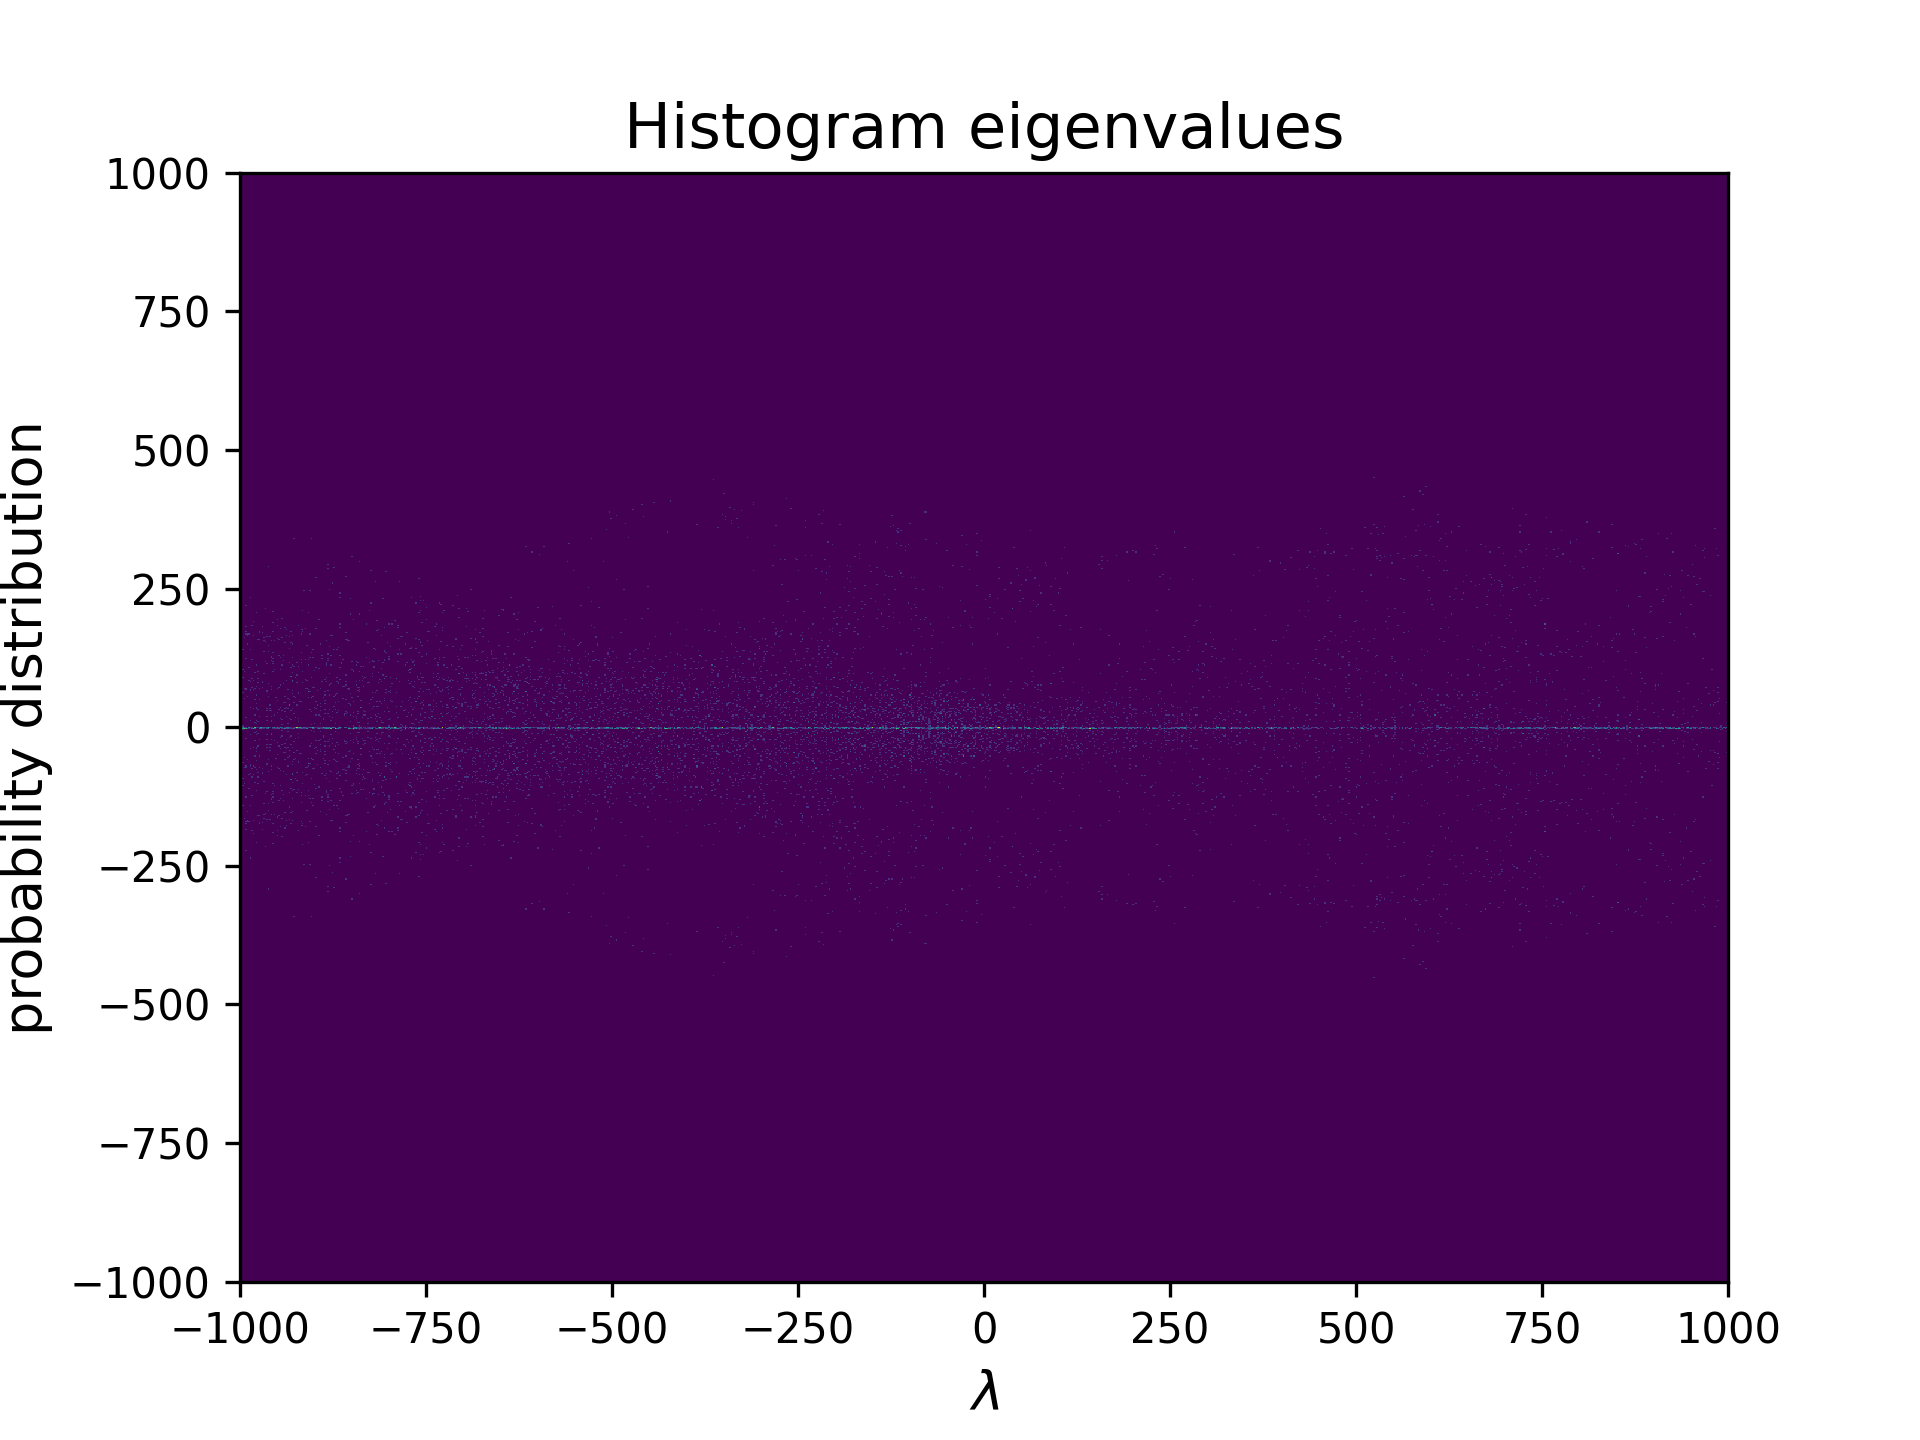
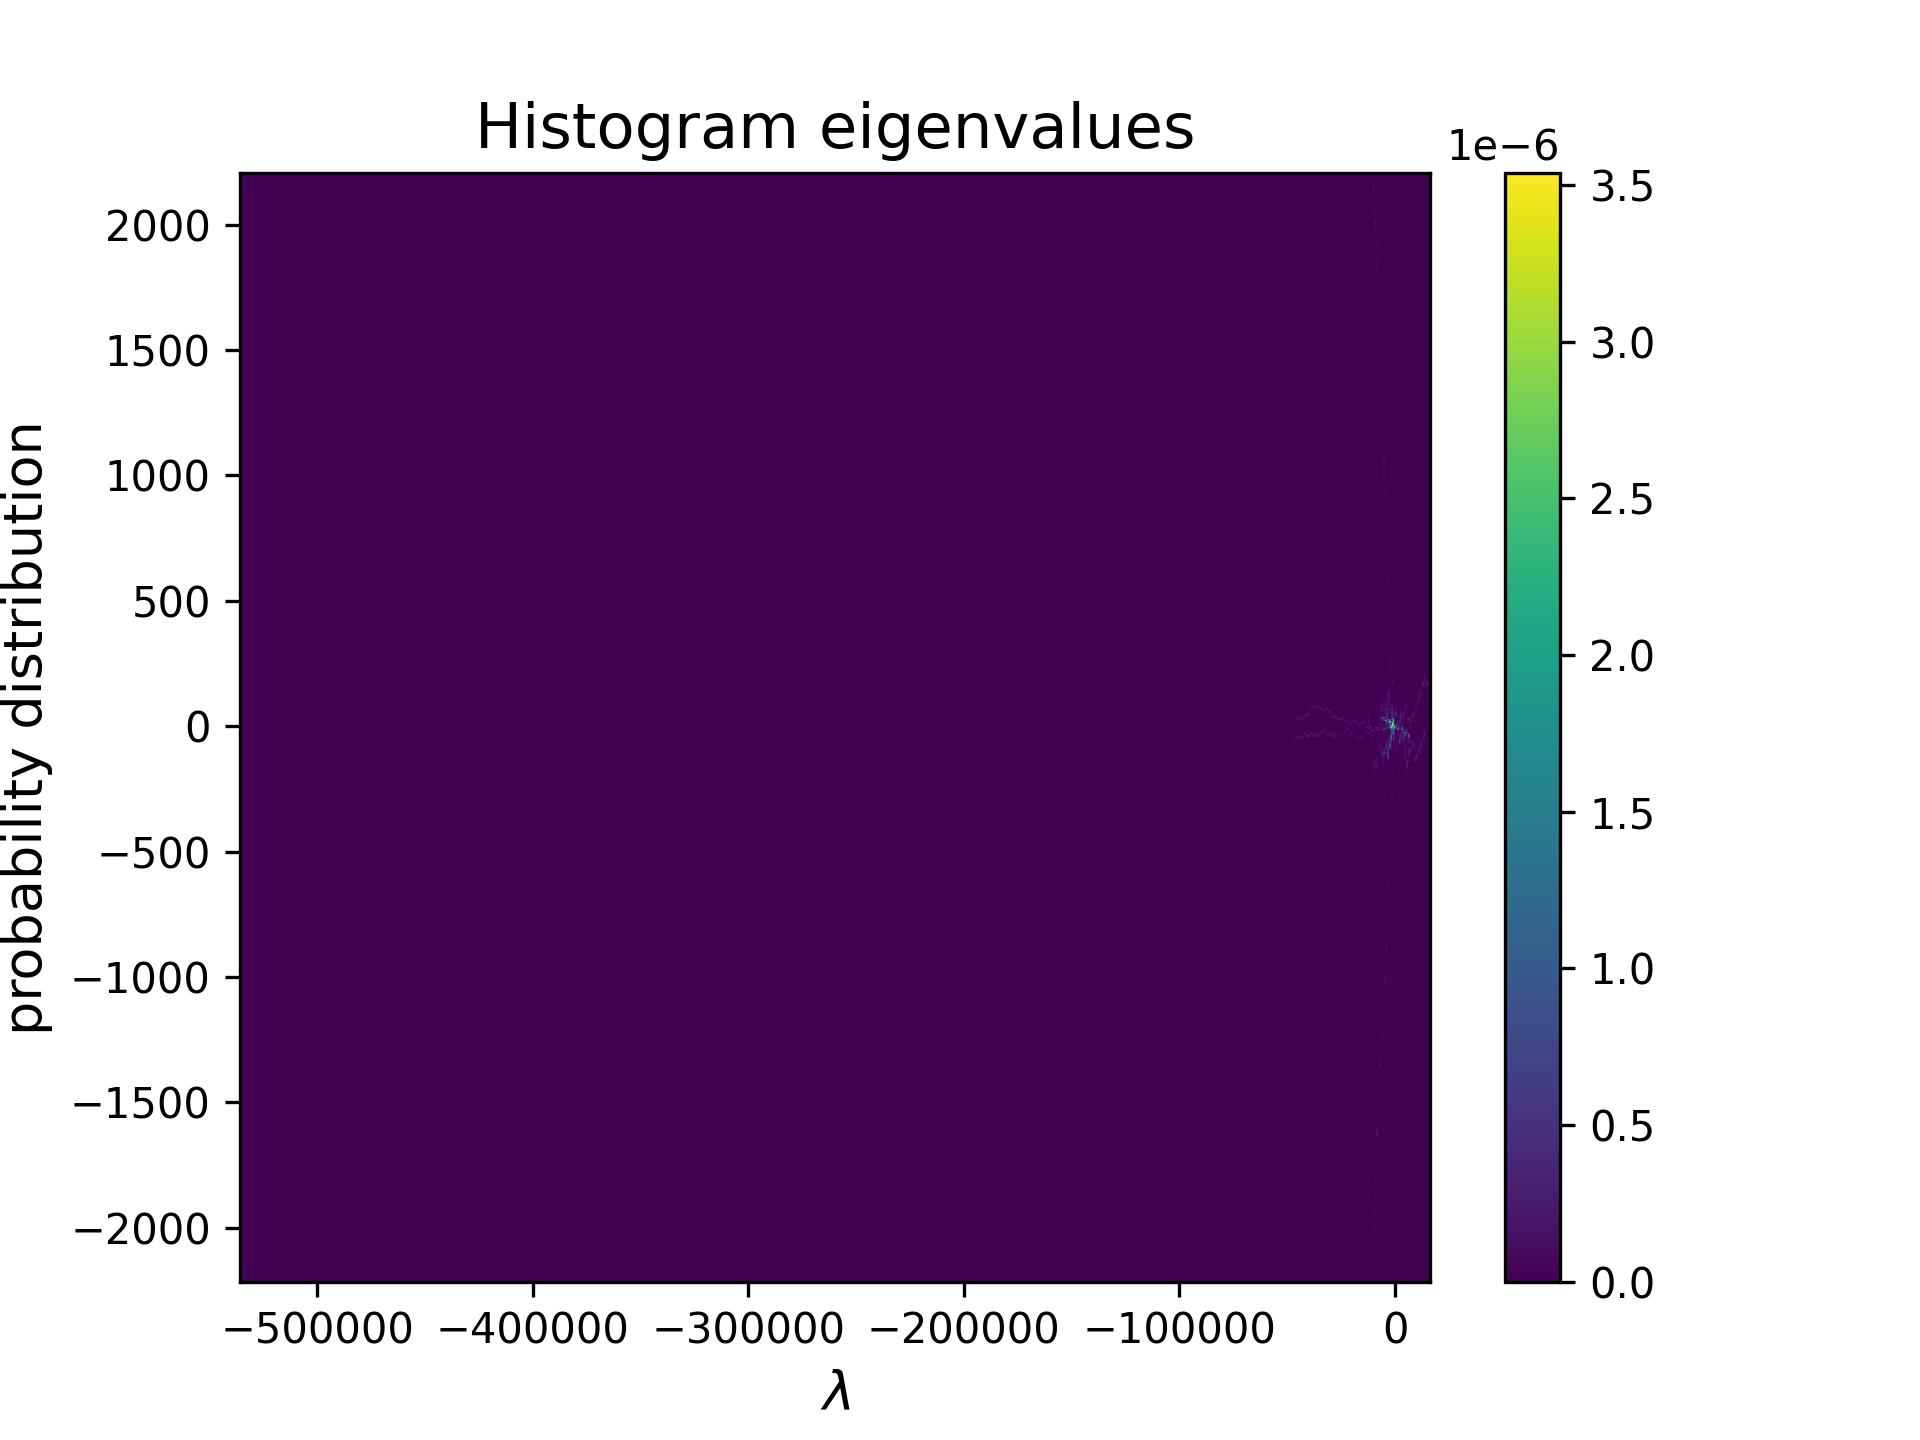
version_29.06.

diff --git a/RMT.py b/RMT.py
@@ -8,8 +8,8 @@ import cmath
 
 #Defining important constants
 
-N = int(20)
-M = int(800)
+N = int(4)
+M = int(8000)
 
 
 #Defining matricies
@@ -22,6 +22,11 @@ kappa_0 = np.zeros(shape=(N*N,N*N),dtype=np.complex_)
 mathcalL = np.zeros(shape=(N*N,N*N),dtype=np.complex_)
 Lambda = np.array([])
 dif = np.array([])
+
+A = np.zeros(shape=(N*N,N*N),dtype=np.complex_)
+B = np.zeros(shape=(N*N,N*N),dtype=np.complex_)
+C = np.zeros(shape=(N*N,N*N),dtype=np.complex_)
+D = np.zeros(shape=(N*N,N*N),dtype=np.complex_)
 
 
 #Implementing U from Timm and Lange
@@ -126,7 +131,7 @@ for e in range(M):
     for b in range(N*N):
             K_0[b][N*(N-1)+(N-1)] = 0
 
-    #Calculating mathcalL from K_0 via Lange,Timm (easy way, by back-transforming) Eq.:(23)
+    '''#Calculating mathcalL from K_0 via Lange,Timm (easy way, by back-transforming) Eq.:(23)
     kappa_0 = U.T.dot(K_0.dot(U))
     for i in range(N):
         for j in range(N):
@@ -138,9 +143,114 @@ for e in range(M):
                     if j == n:
                         for sum in range(N):
                             mathcalL[N*i+j][N*m+n] += 0.5*kappa_0[i*N+sum][m*N+sum]
-                    mathcalL[N*i+j][N*m+n] += kappa_0[N*i+m][N*j+n]
+                    mathcalL[N*i+j][N*m+n] += kappa_0[N*i+m][N*j+n]'''
+
+    #Calculating mathcalL using Timm, Lange Appendix (A1)-(A5)
+    #A
+    for m in range(N):
+        for n in range(N):
+            for p in range(N):
+                for q in range(N):
+
+                    if m == p:
+                        for sum in range(N):
+                            if sum != n:
+                                if sum != q:
+                                    A[N*m+n][N*p+q] += 0.5*K_0[sum*N+n][sum*N+q]
+                    if n == p:
+                        for sum in range(N):
+                            if sum != m:
+                                if sum != p:
+                                    A[N*m+n][N*p+q] += 0.5*K_0[sum*N+p][sum*N+m]
+                    if m != p:
+                        if n!= q:
+                            A[N*m+n][N*p+q] += K_0[m*N+p][n*N+m]
+    #B
+    for m in range(N):
+        for n in range(N):
+            for p in range(N):
+                for q in range(N):
+
+                    if m != p:
+                        if n == q:
+                            B[N*m+n][N*p+q] += (-np.sqrt((n)/(n+1))*K_0[N*m+p][N*(n-1)+(n-1)])
+                            for k in range(n, N-1):
+                                B[N*m+n][N*p+q] += K_0[m*N+p][k*N+k]/np.sqrt((k+1)*(k+2))
+
+                    if m == p:
+                        if n != q:
+                            B[N*m+n][N*p+q] += 0.5*(np.sqrt((q)/(q+1))*K_0[N*q+n][N*(q-1)+(q-1)])
+                            for k in range(q, N-1):
+                                B[N*m+n][N*p+q] += (-0.5*K_0[q*N+n][k*N+k]/np.sqrt((k+1)*(k+2)))
+
+                    if m != p:
+                        if n == q:
+                            B[N*m+n][N*p+q] += 0.5*(np.sqrt((m)/(m+1))*K_0[N*m+p][N*(m-1)+(m-1)])
+                            for k in range(m, N-1):
+                                B[N*m+n][N*p+q] += (-0.5*K_0[m*N+p][k*N+k]/np.sqrt((k+1)*(k+2)))
+
+    #C
+    for m in range(N):
+        for n in range(N):
+            for p in range(N):
+                for q in range(N):
+
+                    if m == p:
+                        if n != q:
+                            C[N*m+n][N*p+q] += (-np.sqrt((m)/(m+1))*K_0[N*m+p][N*(m-1)+(m-1)])
+                            for k in range(m, N-1):
+                                C[N*m+n][N*p+q] += K_0[k*N+k][n*N+q]/np.sqrt((k+1)*(k+2))
+
+                    if m == p:
+                        if n != q:
+                            C[N*m+n][N*p+q] += 0.5*(np.sqrt((p)/(p+1))*K_0[N*(p-1)+(p-1)][N*p+m])
+                            for k in range(p, N-1):
+                                C[N*m+n][N*p+q] += (-0.5*K_0[k*N+k][p*N+m]/np.sqrt((k+1)*(k+2)))
+
+                    if m == p:
+                        if n != q:
+                            C[N*m+n][N*p+q] += 0.5*(np.sqrt((n)/(n+1))*K_0[N*(n-1)+(n-1)][N*n+q])
+                            for k in range(n, N-1):
+                                C[N*m+n][N*p+q] += (-0.5*K_0[k*N+k][n*N+q]/np.sqrt((k+1)*(k+2)))
+    #D
+    for m in range(N):
+        for n in range(N):
+            for p in range(N):
+                for q in range(N):
+
+                    if m == p:
+                        if n == q:
+                            D[N*m+n][N*p+q] += (np.sqrt((m*n)/((m+1)*(n+1)))*K_0[N*(m-1)+(m-1)][N*(n-1)+(n-1)])
+                            for l in range(n, N-1):
+                                D[N*m+n][N*p+q] += -np.sqrt(m/(m+1))*K_0[(m-1)*N+(m-1)][l*N+l]/np.sqrt((l+1)*(l+2))
+
+                            for k in range(m, N-1):
+                                D[N*m+n][N*p+q] += -np.sqrt(n/(n+1))*K_0[k*N+k][(n-1)*N+(n-1)]/np.sqrt((k+1)*(k+2))
+
+                            for k in range(m, N-1):
+                                for l in range(n, N-1):
+                                    D[N*m+n][N*p+q] += K_0[N*k+k][N*l+l]/np.sqrt((k+1)*(k+2)*(l+1)*(l+2))
+
+                    D[N*m+n][N*p+q] += -m/(m+1) * K_0[N*(m-1)+(m-1)][N*(m-1)+(m-1)]
+                    for k in range(m, N-1):
+                        D[N*m+n][N*p+q] += np.sqrt(m/(m+1))*(K_0[(m-1)*N+(m-1)][k*N+k] + K_0[k*N+k][(m-1)*N+(m-1)])/np.sqrt((k+1)*(k+2))
+                    for k in range(m, N-1):
+                        for l in range(m, N-1):
+                            D[N*m+n][N*p+q] += -K_0[N*k+k][N*l+l]/np.sqrt((k+1)*(k+2)*(l+1)*(l+2))
+
+                    D[N*m+n][N*p+q] += -n/(n+1) * K_0[N*(n-1)+(n-1)][N*(n-1)+(n-1)]
+                    for k in range(n, N-1):
+                        D[N*m+n][N*p+q] += np.sqrt(n/(n+1))*(K_0[(n-1)*N+(n-1)][k*N+k] + K_0[k*N+k][(n-1)*N+(n-1)])/np.sqrt((k+1)*(k+2))
+                    for k in range(n, N-1):
+                        for l in range(n, N-1):
+                            D[N*m+n][N*p+q] += -K_0[N*k+k][N*l+l]/np.sqrt((k+1)*(k+2)*(l+1)*(l+2))
 
 
+
+
+
+
+    mathcalL = A+B+C+D
     values = lg.eigvals(mathcalL)
 
     Lambda = np.append(Lambda, values)
@@ -160,8 +270,9 @@ for i in range(len(Lambda_sort)-1):
 print("Das ist die Differenz:   ", dif)
 
 #plotting histogram
-plt.hist2d(Lambda_real, Lambda_imag, bins = (1000, 1000), range =  [[-1000, 1000], [-1000, 1000]], density = True)
+plt.hist2d(Lambda_real, Lambda_imag, bins = (301, 301), range = [[-1000, 1000],[-1000, 1000]], density = True)
 
+plt.colorbar()
 plt.title('Histogram eigenvalues', fontsize = 15)
 plt.xlabel('$\lambda$', fontsize = 13)
 plt.ylabel('probability distribution', fontsize = 13)
